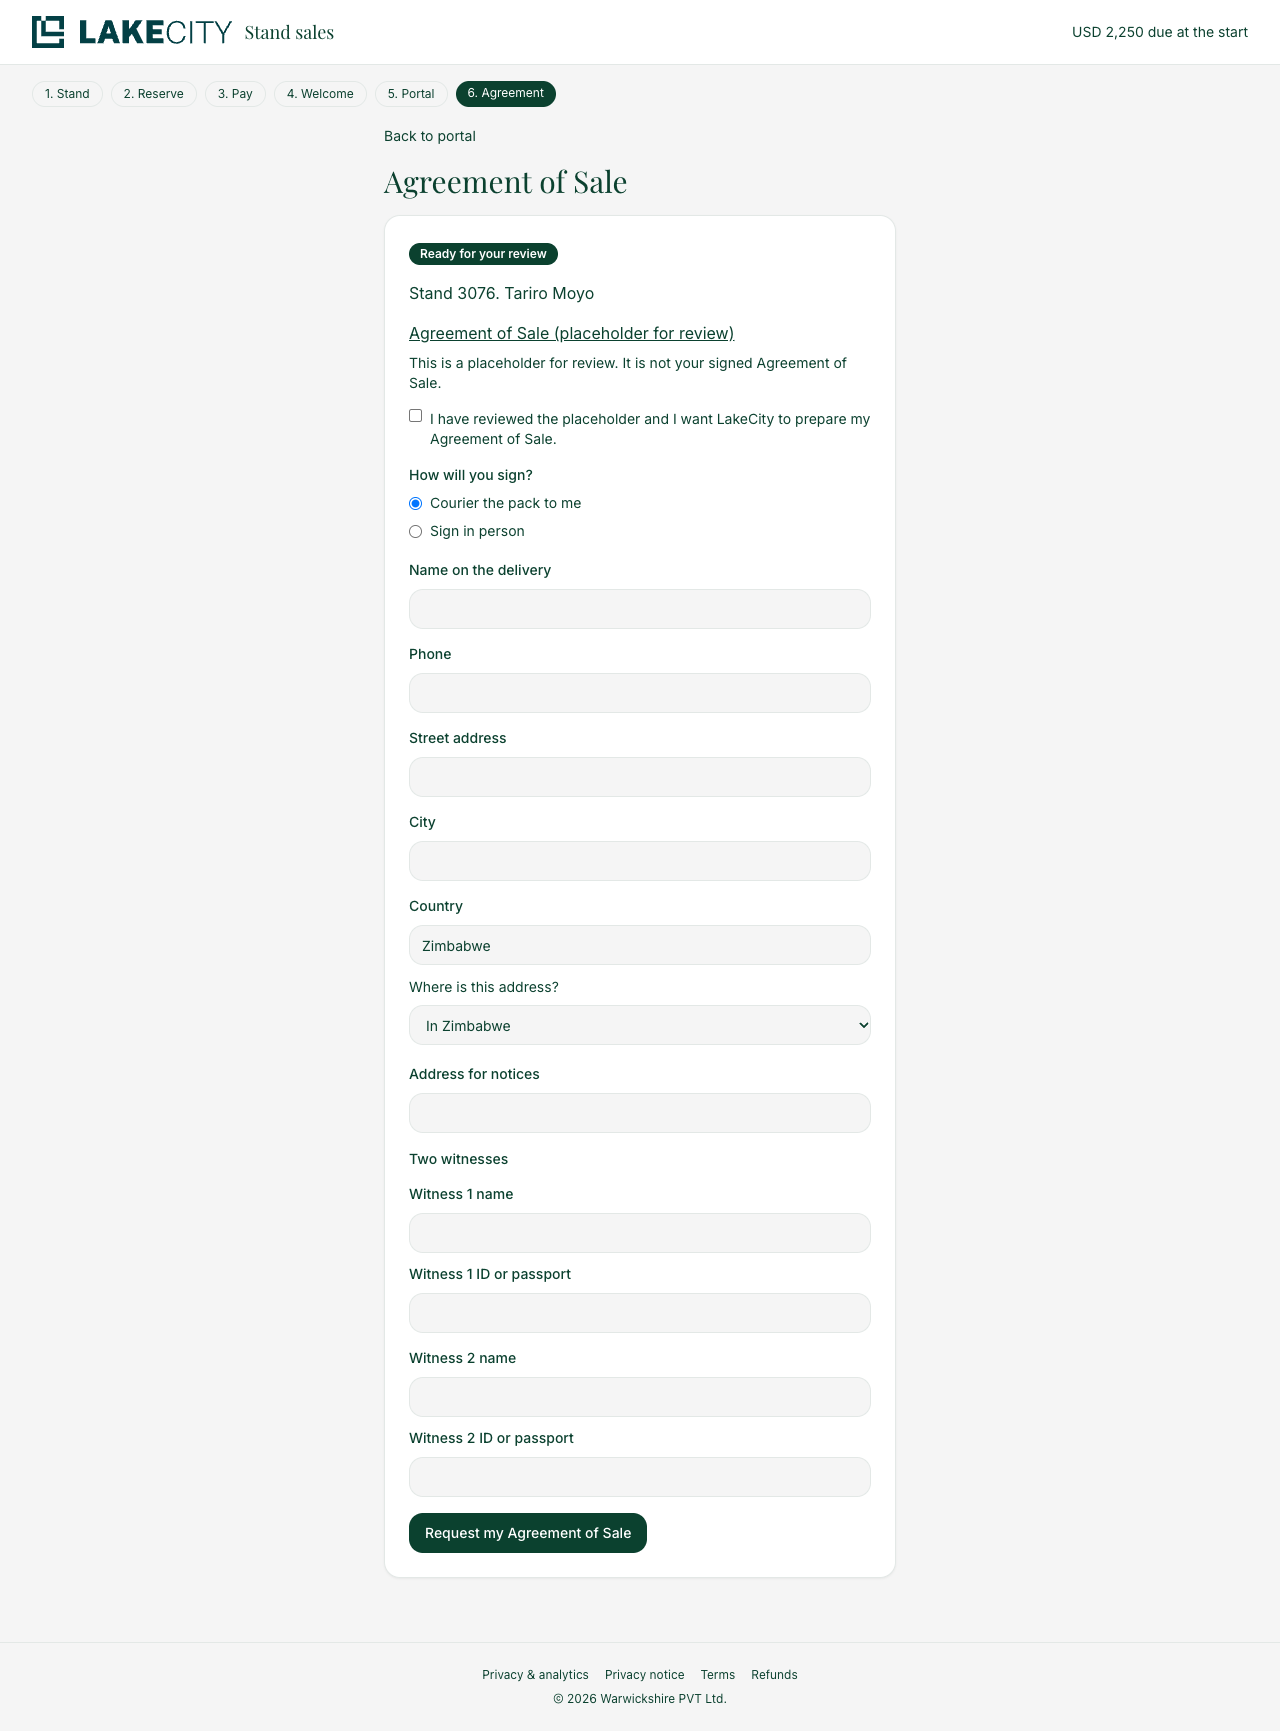
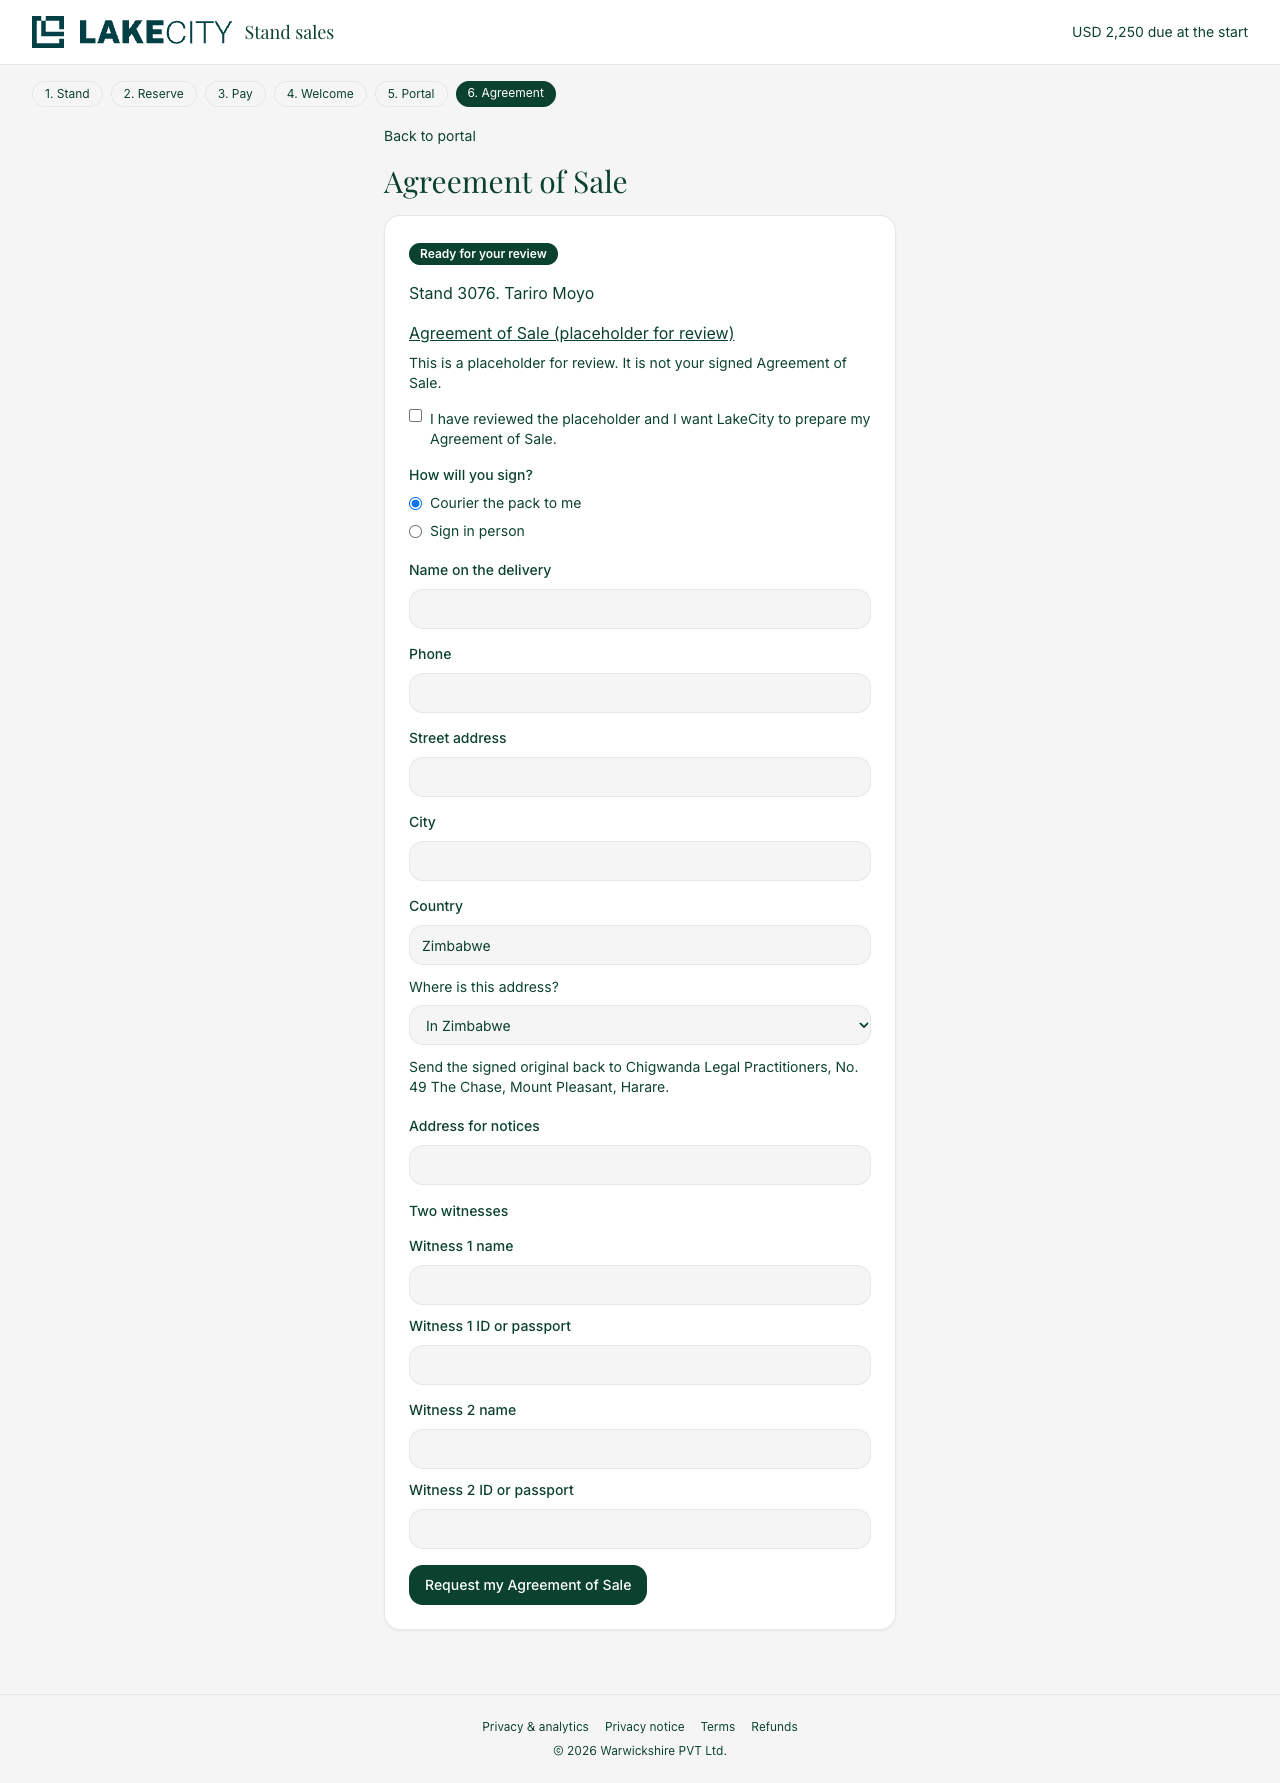
Record Alex's address, inbox, and courier return decisions.
Domboshava and accounts@ are confirmed. Signed packs return to Chigwanda Legal Practitioners, and office hours stay hidden.

diff --git a/supabase/functions/_shared/stand-sales-office.ts b/supabase/functions/_shared/stand-sales-office.ts
@@ -1,7 +1,7 @@
 // Same customer-facing strings as src/lib/stand-sales/office.ts.
 // Edge functions cannot import the Vite app module. A unit test keeps the two copies equal.
 
-/** Pending Alex/conveyancer spelling sign-off. Recent letterheads and Agreements of Sale use "Domboshava"; the 2 Jun 2026 company-address change and some older mandates use "Domboshawa". */
+/** Confirmed by Alex, 27 Nov 2026. */
 export const HARE_OFFICE_ADDRESS = "128 Domboshava Road, Borrowdale, Harare";
 
 /** UNVERIFIED — confirm with Alex before publish. Buyer-facing copy must not include these hours until HARE_OFFICE_HOURS_CONFIRMED is true. */
@@ -10,8 +10,11 @@ export const HARE_OFFICE_HOURS = "Monday–Friday, 08:00–16:30";
 /** Hours stay off buyer-facing copy until Alex confirms them. */
 export const HARE_OFFICE_HOURS_CONFIRMED = false;
 
-/** Already the from/sign-off address in supabase/functions/_shared/stand-sales-email.ts. Confirm with Alex whether legal@ and/or sales@ should also be queued on agreement alerts. */
+/** Confirmed by Alex, 27 Nov 2026. Sole staff inbox for agreement alerts. */
 export const STAFF_AGREEMENT_NOTIFY_EMAIL = "accounts@lakecity.co.zw";
+
+/** Confirmed by Alex, 27 Nov 2026. Signed wet-signature packs are delivered and returned here. Do not add a phone number or email for the firm. */
+export const AGREEMENT_RETURN_ADDRESS = "Chigwanda Legal Practitioners, No. 49 The Chase, Mount Pleasant, Harare";
 
 /** Review placeholder only. Not a customer Agreement of Sale PDF. */
 export const AGREEMENT_REVIEW_DOCUMENT_URL = "https://example.invalid/agreement-of-sale-placeholder";
@@ -22,4 +25,8 @@ export function inPersonSigningLine(): string {
   const line = `Sign in person at the LakeCity Harare office at ${HARE_OFFICE_ADDRESS}`;
   if (!HARE_OFFICE_HOURS_CONFIRMED) return line;
   return `${line} (${HARE_OFFICE_HOURS})`;
+}
+
+export function agreementReturnLine(): string {
+  return `Send the signed original back to ${AGREEMENT_RETURN_ADDRESS}.`;
 }

diff --git a/src/pages/stands/StandAgreementPage.tsx b/src/pages/stands/StandAgreementPage.tsx
@@ -9,7 +9,7 @@ import { Label } from "@/components/ui/label";
 import { WizardFrame } from "@/components/stand-sales/WizardFrame";
 import { standSalesApi, type ApplicationView } from "@/lib/stand-sales/api";
 import { AGREEMENT_STATUS_LABEL } from "@/lib/stand-sales/agreement-labels";
-import { AGREEMENT_REVIEW_DOCUMENT_LABEL, AGREEMENT_REVIEW_DOCUMENT_URL, inPersonSigningLine } from "@/lib/stand-sales/office";
+import { AGREEMENT_REVIEW_DOCUMENT_LABEL, AGREEMENT_REVIEW_DOCUMENT_URL, agreementReturnLine, inPersonSigningLine } from "@/lib/stand-sales/office";
 import { readStandSession } from "@/lib/stand-sales/session";
 
 const docusignUi = import.meta.env.VITE_ENABLE_DOCUSIGN_EXECUTION === "true";
@@ -188,6 +188,7 @@ export default function StandAgreementPage() {
                           <option value="diaspora">Outside Zimbabwe</option>
                         </select>
                       </label>
+                      <p className="text-sm" data-testid="return-destination">{agreementReturnLine()}</p>
                     </div>
                   )}
                   <Field id="domicilium" label="Address for notices" value={domicilium} onChange={setDomicilium} />
@@ -205,7 +206,7 @@ export default function StandAgreementPage() {
               )}
               {returnOpen && (
                 <form onSubmit={submitReturn} className="space-y-4" data-testid="return-tracking">
-                  <p className="text-sm">Sign the original with both witnesses, then send it back using the return details in the pack.</p>
+                  <p className="text-sm">Sign the original with both witnesses. {agreementReturnLine()}</p>
                   <Field id="return-courier" label="Courier you used" value={returnCourier} onChange={setReturnCourier} />
                   <Field id="return-tracking" label="Return tracking number" value={returnTracking} onChange={setReturnTracking} />
                   <label className="flex items-start gap-2 text-sm">

diff --git a/src/lib/stand-sales/office.ts b/src/lib/stand-sales/office.ts
@@ -1,4 +1,4 @@
-/** Pending Alex/conveyancer spelling sign-off. Recent letterheads and Agreements of Sale use "Domboshava"; the 2 Jun 2026 company-address change and some older mandates use "Domboshawa". */
+/** Confirmed by Alex, 27 Nov 2026. */
 export const HARE_OFFICE_ADDRESS = "128 Domboshava Road, Borrowdale, Harare";
 
 /** UNVERIFIED — confirm with Alex before publish. Buyer-facing copy must not include these hours until HARE_OFFICE_HOURS_CONFIRMED is true. */
@@ -7,8 +7,11 @@ export const HARE_OFFICE_HOURS = "Monday–Friday, 08:00–16:30";
 /** Hours stay off buyer-facing copy until Alex confirms them. */
 export const HARE_OFFICE_HOURS_CONFIRMED = false;
 
-/** Already the from/sign-off address in supabase/functions/_shared/stand-sales-email.ts. Confirm with Alex whether legal@ and/or sales@ should also be queued on agreement alerts. */
+/** Confirmed by Alex, 27 Nov 2026. Sole staff inbox for agreement alerts. */
 export const STAFF_AGREEMENT_NOTIFY_EMAIL = "accounts@lakecity.co.zw";
+
+/** Confirmed by Alex, 27 Nov 2026. Signed wet-signature packs are delivered and returned here. Do not add a phone number or email for the firm. */
+export const AGREEMENT_RETURN_ADDRESS = "Chigwanda Legal Practitioners, No. 49 The Chase, Mount Pleasant, Harare";
 
 /** Review placeholder only. Not a customer Agreement of Sale PDF. */
 export const AGREEMENT_REVIEW_DOCUMENT_URL = "https://example.invalid/agreement-of-sale-placeholder";
@@ -19,4 +22,8 @@ export function inPersonSigningLine(): string {
   const line = `Sign in person at the LakeCity Harare office at ${HARE_OFFICE_ADDRESS}`;
   if (!HARE_OFFICE_HOURS_CONFIRMED) return line;
   return `${line} (${HARE_OFFICE_HOURS})`;
+}
+
+export function agreementReturnLine(): string {
+  return `Send the signed original back to ${AGREEMENT_RETURN_ADDRESS}.`;
 }

diff --git a/supabase/functions/_shared/stand-sales-email.ts b/supabase/functions/_shared/stand-sales-email.ts
@@ -1,7 +1,7 @@
 // Stand-sales emails. Rendered for the outbox and for tests.
 // The edge functions queue HTML and do not call Resend. A test can pass a mock transport.
 
-import { inPersonSigningLine, STAFF_AGREEMENT_NOTIFY_EMAIL } from "./stand-sales-office.ts";
+import { agreementReturnLine, inPersonSigningLine, STAFF_AGREEMENT_NOTIFY_EMAIL } from "./stand-sales-office.ts";
 import { DUE_AT_START_USD, VAT_NOTE, formatUsd } from "./stand-pricing.ts";
 
 export const OUTBOX_STATUS = "queued_dev_only" as const;
@@ -109,7 +109,7 @@ export function renderStandSalesEmail(input: {
   if (input.template === "agreement_acknowledged") {
     const how = input.executionMethod === "in_person"
       ? escapeHtml(inPersonSigningLine())
-      : "We will prepare a signature pack and send it to the courier address you gave.";
+      : `We will prepare a signature pack and send it to the courier address you gave. ${escapeHtml(agreementReturnLine())}`;
     return {
       template: input.template,
       to: input.to,
@@ -127,7 +127,7 @@ export function renderStandSalesEmail(input: {
       subject: `Signature pack sent for stand ${stand}`,
       html: shell(
         "Your signature pack is on the way",
-        `<p>Hello ${name}, LakeCity has sent the signature pack for stand ${standHtml}. Tracking: ${escapeHtml(input.tracking ?? "")}.</p><p>Sign it in ink with two witnesses, then send the original back with the return details included in the pack.</p>`,
+        `<p>Hello ${name}, LakeCity has sent the signature pack for stand ${standHtml}. Tracking: ${escapeHtml(input.tracking ?? "")}.</p><p>Sign it in ink with two witnesses. ${escapeHtml(agreementReturnLine())}</p>`,
       ),
     };
   }

diff --git a/src/lib/stand-sales/agreement.test.ts b/src/lib/stand-sales/agreement.test.ts
@@ -99,6 +99,10 @@ describe("office config", () => {
     expect(appOffice.inPersonSigningLine()).toBe(edgeOffice.inPersonSigningLine());
     expect(appOffice.inPersonSigningLine()).toContain(appOffice.HARE_OFFICE_ADDRESS);
     expect(appOffice.inPersonSigningLine()).not.toContain(appOffice.HARE_OFFICE_HOURS);
+    expect(appOffice.AGREEMENT_RETURN_ADDRESS).toBe(edgeOffice.AGREEMENT_RETURN_ADDRESS);
+    expect(appOffice.AGREEMENT_RETURN_ADDRESS).toBe("Chigwanda Legal Practitioners, No. 49 The Chase, Mount Pleasant, Harare");
+    expect(appOffice.agreementReturnLine()).toBe(edgeOffice.agreementReturnLine());
+    expect(appOffice.agreementReturnLine()).not.toMatch(/@|phone/i);
     expect(appOffice.AGREEMENT_REVIEW_DOCUMENT_LABEL).toMatch(/placeholder/i);
   });
 });
@@ -181,6 +185,9 @@ describe("agreement emails stay queued", () => {
       expect(email.html).toContain("queued for preview");
       expect(email.html).toContain("3076");
       expect(email.html).not.toContain("api.resend.com");
+      if (template === "agreement_sent_wet_signature" || (template === "agreement_acknowledged" && email.html.includes("signature pack"))) {
+        expect(email.html).toContain("No. 49 The Chase, Mount Pleasant, Harare");
+      }
     }
     expect(OUTBOX_STATUS).toBe("queued_dev_only");
     expect(outboxInsert({

diff --git a/src/pages/internal/StandSalesDashboard.tsx b/src/pages/internal/StandSalesDashboard.tsx
@@ -13,6 +13,7 @@ import { Tabs, TabsContent, TabsList, TabsTrigger } from "@/components/ui/tabs";
 import { supabase } from "@/integrations/supabase/client";
 import { standSalesApi, type AgreementStaffRow, type AgreementStatus } from "@/lib/stand-sales/api";
 import { AGREEMENT_STATUS_LABEL } from "@/lib/stand-sales/agreement-labels";
+import { agreementReturnLine } from "@/lib/stand-sales/office";
 
 interface QueueRow {
   reference: string;
@@ -255,6 +256,7 @@ export default function StandSalesDashboard() {
             </DialogHeader>
             {selected && (
               <div className="space-y-4">
+                {selected.executionMethod === "courier" && <p className="text-sm">{agreementReturnLine()}</p>}
                 {selected.domiciliumAddress && <p className="text-sm">Notices: {selected.domiciliumAddress}</p>}
                 {selected.dispatchTracking && <p className="text-sm">Outbound tracking: {selected.dispatchTracking}</p>}
                 {selected.returnTracking && <p className="text-sm">Return tracking: {selected.returnTracking} via {selected.returnCourier}</p>}

diff --git a/src/pages/stands/StandAgreementPage.test.tsx b/src/pages/stands/StandAgreementPage.test.tsx
@@ -51,6 +51,7 @@ describe("agreement review page", () => {
       </MemoryRouter>,
     );
     expect(await screen.findByTestId("agreement-review")).toHaveTextContent("placeholder");
+    expect(screen.getByTestId("return-destination")).toHaveTextContent("Chigwanda Legal Practitioners, No. 49 The Chase, Mount Pleasant, Harare");
     expect(screen.getByText("Courier the pack to me")).toBeInTheDocument();
     expect(screen.getByText("Sign in person")).toBeInTheDocument();
     await user.click(screen.getByText("Sign in person"));
